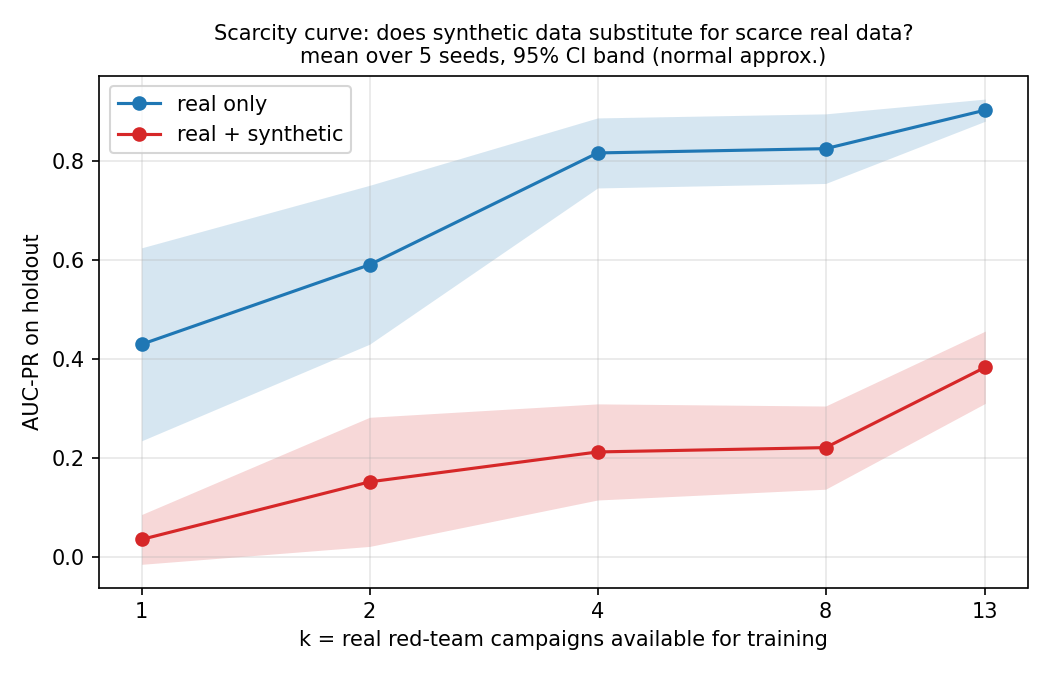
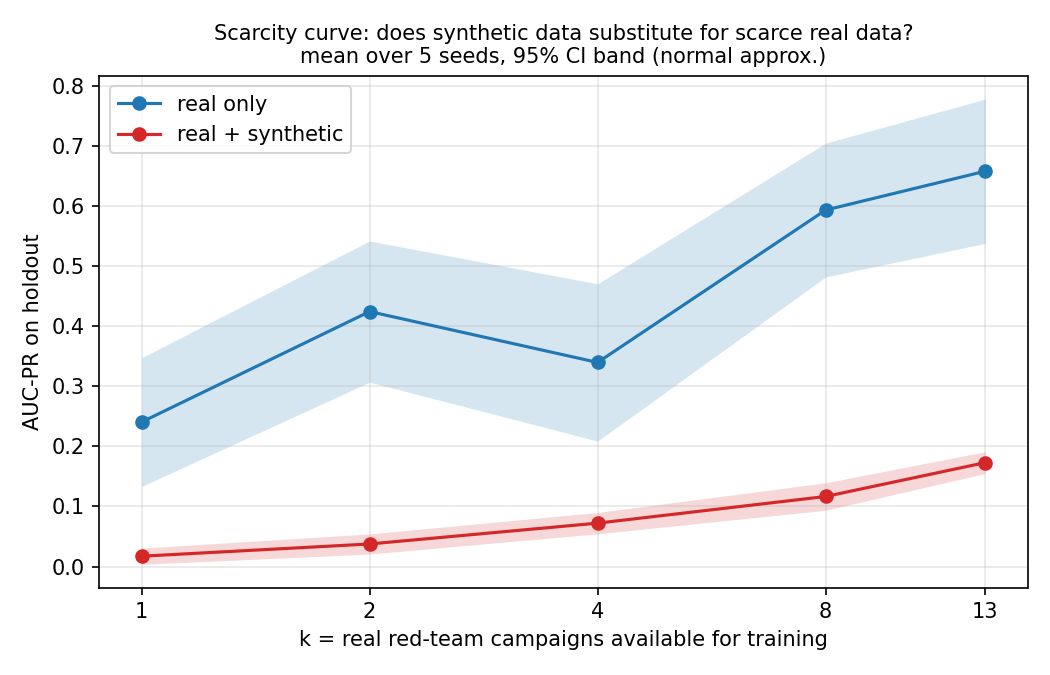
docs: v1 restated -- headline curve, verdict, README and process write-up
Scarcity curve re-run on the fit-window graph, 5 k-values x 20 seeds, 100
cells, 0 failures. The verdict holds: augmentation costs 0.22-0.48 AUC-PR at
every k, paired p<0.001 throughout, winning 8 of 100 cells. It now rests on
20 seeds and a paired test rather than 5 seeds and a gap between means.

Two things the leak was hiding, both now in section 1:
- The real-only arm swings 0.087-0.872 at k=13 on the GBT seed alone (sd
  0.274 against a reported CI of +/-0.022). The old interval was not a stable
  detector, it was suppressed variance.
- The scarcity curve is not monotonic (0.240, 0.424, 0.340, 0.593, 0.658).
  The pre-fix curve rose smoothly at every step and looked exactly like a
  scarcity curve should. That tidiness was the leak.

Also settles the open question from the earlier 5-seed clean-graph run, which
found the k=13 deficit had 'lost significance' (p~0.24). That was too few
seeds, not a real weakening: at 20 seeds k=13 gives p<0.0001.

docs/v1_process.md is the full write-up -- what v1 is, how it is measured,
the five defects in the order found, what survived, and where v2 should aim.

Claude-Session: https://claude.ai/code/session_01SFv34BJhzPT7ksS1enP3GG

diff --git a/docs/validation_report.md b/docs/validation_report.md
@@ -2,7 +2,13 @@
 
 **Synthetic lateral-movement data: does it substitute for scarce real attack data?**
 
-Branch `day4-augmentation-eval` · 98 tests · evaluated 2026-08-11
+104 tests · **v1, restated 2026-09-07** on the leak-free fit-window graph (§7.4)
+
+> **This report was rewritten.** Every headline number in the version dated 2026-08-11 was produced
+> on a graph built from the whole 58-day corpus, including the evaluation window. The verdict on
+> synthetic augmentation survived; the numbers supporting it did not, and two secondary conclusions
+> reversed outright. §7.4 has the mechanism, the cost, and why a `t_hi` guard that existed and was
+> tested still failed to prevent it. Process write-up: [`v1_process.md`](v1_process.md).
 
 ---
 
@@ -12,7 +18,8 @@ The detector in this report is a **measuring instrument for synthetic-data quali
 detection-science contribution. Nothing here claims a new way to find lateral movement. Every
 number exists to answer one question: *is this synthetic data useful?*
 
-The answer is **no**, and the evidence is unusually clean.
+The answer is **no**. The evidence is clean; it is not tidy, and the difference matters — see §1 on
+what the leak was smoothing over.
 
 All numbers are AUC-PR (average precision) measured on the **real holdout**, never on synthetic
 data. The holdout is **51 real red-team events / 6 campaigns against 205,612 benign events** — a
@@ -27,29 +34,46 @@ sit on the identical holdout.
 
 ## 1. Headline: the scarcity curve
 
-Does adding synthetic attack data help when real attack data is scarce? Each of 25 cells (5
-k-values × 5 seeds) draws *k* of the 13 real fit campaigns, **refits the generator on only those
+Does adding synthetic attack data help when real attack data is scarce? Each of 100 cells
+(5 k-values x 20 seeds) draws *k* of the 13 real fit campaigns, **refits the generator on only those
 k**, regenerates a fresh 1,000-campaign corpus, and trains two detectors — real-only and
 real+synthetic — scoring both once on the untouched holdout.
+`python -m scripts.run_day4 sweep 20` · 100/100 cells, 0 failures.
 
-| k (real campaigns) | real only | real + synthetic | lift |
-|---:|---|---|---|
-| 1 | 0.430 ± 0.195 | 0.036 ± 0.050 | **−0.394** |
-| 2 | 0.590 ± 0.160 | 0.152 ± 0.130 | **−0.439** |
-| 4 | 0.816 ± 0.071 | 0.212 ± 0.097 | **−0.604** |
-| 8 | 0.825 ± 0.070 | 0.221 ± 0.084 | **−0.604** |
-| 13 | 0.903 ± 0.022 | 0.383 ± 0.073 | **−0.519** |
+| k | real only | real + synthetic | lift | p | seeds augmentation won |
+|---:|---|---|---|---|---:|
+| 1 | 0.240 ± 0.107 | 0.017 ± 0.014 | **−0.223** | 0.0002 | 1 / 20 |
+| 2 | 0.424 ± 0.117 | 0.038 ± 0.017 | **−0.387** | <0.0001 | 0 / 20 |
+| 4 | 0.340 ± 0.131 | 0.072 ± 0.018 | **−0.267** | 0.0007 | 3 / 20 |
+| 8 | 0.593 ± 0.111 | 0.117 ± 0.023 | **−0.477** | <0.0001 | 1 / 20 |
+| 13 | 0.658 ± 0.120 | 0.173 ± 0.018 | **−0.485** | <0.0001 | 3 / 20 |
 
-*mean ± 95% CI across 5 seeds (normal approximation; n=5 is small)* · `docs/figures/scarcity_curve.png`
+*mean ± 95% CI across 20 seeds; p from a paired t-test on the per-seed lift* ·
+`docs/figures/scarcity_curve.png`
 
 **Synthetic augmentation does not fail to help. It actively destroys the detector, at every k.**
+It wins 8 of 100 cells. The verdict is unchanged from the pre-fix version of this report, but it now
+rests on 20 seeds and a paired test rather than on 5 seeds and a gap between means.
 
-The real-only arm behaves exactly as a scarcity curve should — 0.43 at one campaign rising to 0.90
-at thirteen. The augmented arm never comes close, and the damage does not shrink as real data grows.
+### Two things the leak was hiding
 
-Across **15 independent synthetic draws at k=13** (see §7 on why they are independent), the
-augmented arm ranges **0.240 – 0.469** (mean 0.337, sd 0.067) against a real-only range of
-**0.878 – 0.942**. The two distributions do not overlap at any point. This is not a marginal effect.
+**1. The real-only arm is wildly unstable, and the leak concealed it.** At k=13 the real-only score
+ranges **0.087 to 0.872** across seeds — sd 0.274, against the 0.022 CI reported before the fix.
+Nothing differs between those runs but the GBT seed. The old ±0.022 interval was not a measurement
+of a stable detector; it was the leak suppressing variance. **Any single-seed number from this
+pipeline is one draw from a very wide distribution**, and that includes every number in earlier
+versions of this report.
+
+**2. The scarcity curve is not monotonic.** Real-only goes 0.240 → 0.424 → **0.340** → 0.593 →
+0.658. Adding real campaigns from 2 to 4 *lowers* the mean. The pre-fix curve rose smoothly at every
+step (0.430 → 0.590 → 0.816 → 0.825 → 0.903) and looked exactly like a scarcity curve is supposed
+to look. **That tidiness was the leak.** With it removed, the honest statement is that more real
+campaigns help on average but not reliably, and the seed dominates the trend at this sample size.
+
+The augmented arm, by contrast, is *stable* — sd 0.018–0.052 at every k. It is consistently and
+predictably bad. That combination (stable and low, against unstable and higher) is what §3 explains:
+drowned in synthetic positives, the detector abandons `edge_rarity` for a coarse attribute and
+becomes reliably mediocre instead of erratically useful.
 
 ---
 
@@ -350,11 +374,16 @@ detection-useless. Hour-of-day is exactly that here: benign traffic peaks in the
 there are zero off-hours attack examples to learn from.
 
 **Correction to the stated Caveat B premise.** The carried-forward note said the real red team is
-"~100% business-hours". Measured on `redteam_fit` it is **0.748** — 164 of 650 events fall in hours
-18–23 (21:00 n=48, 20:00 n=38). Synthetic is 0.549 against a real *corpus* rate of 0.570: the
+"~100% business-hours". Business hours here means **06:00–17:59** — a definition that used to live
+only in an uncommitted script and is now pinned as `BUSINESS_HOURS` in `run_day4.py`, computed by
+the `validate` task. Measured on `redteam_fit` it is **0.748** — 164 of 650 events fall in hours
+18–23 (21:00 n=48, 20:00 n=38). Synthetic is 0.545 against a real *corpus* rate of 0.569: the
 generator faithfully reproduces the **corpus** hourly profile by construction (`sample_start_time`
 samples hour ∝ corpus volume) and therefore under-represents the red team's business-hour skew.
 The drift is real; its magnitude is **0.55 vs 0.75**, not 0.55 vs ~1.0. `docs/figures/caveat_b_hourly.png`
+
+This section is unaffected by the §7.4 fix: bounding the aggregates to the fit window moves the
+corpus rate only 0.570 → 0.569, because the diurnal rhythm is stable across the 58 days.
 
 Also carried forward: fan-out ≠ multi-hop · don't dress inference as fact · within-operator transfer
 ceiling · attribute constancy is tool-specific.
@@ -408,20 +437,34 @@ Stated first-class, not as an afterthought.
 ## 10. Verdict
 
 **Do not use this synthetic corpus to augment scarce real attack data.** It is worse than nothing:
-it costs 0.39–0.60 AUC-PR at every scarcity level tested, and TSTR is near-useless.
+it costs **0.22–0.48 AUC-PR** at every scarcity level tested (paired p < 0.001 at every k, winning
+8 of 100 cells), and TSTR is near-useless.
 
-The failure is **generative**, and it is not the hub-weighting layer — turning that off changes
-nothing. The corpus is structurally novel (98% new real edges, no memorization) but its per-event
-feature distribution does not match the real attack, and at a 20:1 synthetic-to-real ratio it
-dominates the positive class and pulls the detector onto a coarse tooling attribute.
+The failure is **generative**. The corpus is structurally novel — 99.8% new real edges, not one
+campaign above the near-duplicate threshold — but its per-event feature distribution does not match
+the real attack, and at a ~20:1 synthetic-to-real ratio it dominates the positive class and pulls
+the detector off `edge_rarity` (0.971 importance) and onto `auth_type_NTLM` (0.924).
+
+**The hub-weighting layer is not neutral — it is actively harmful.** The naive generator (β=0, no
+credential bonus) beats the tuned one on 10 of 10 seeds, p=0.0001. The earlier version of this
+report concluded the two were indistinguishable; that was the leak. Turning the sophistication off
+still does not rescue augmentation (naive costs 0.346 against real-only, p=0.008), so the right
+reading is: **the weighting makes a wrong approach worse, and removing it does not make it right.**
 
 The honest framing for anything built on this: **the generator reproduces THIS operator's campaign
-shape, not its detectable structure.**
+shape, not its detectable structure.** It reproduces *permission* and *popularity*; the signal lives
+in *habit*.
 
-The most useful number in this report is the one that required no machine learning at all — **a
-rarity heuristic at 0.530, 59% of the trained ceiling.** Before adding synthesis, that is the bar.
+**What replaced the old closing claim.** The previous verdict ended by pointing at a training-free
+rarity heuristic scoring 0.530 — "59% of the trained ceiling; before adding synthesis, that is the
+bar." **That number was the leak.** On a graph that stops at training time, ranking by `edge_rarity`
+alone scores **0.0082**. There is no cheap baseline that already solves this. The bar is lower than
+v1 claimed, which makes the problem more open, not less — and it makes the wide, unstable real-only
+arm (§1) the honest description of where detection currently stands.
 
 ---
 
-*Reproduce: `python scripts/run_day4.py` (scarcity sweep) · `python scripts/run_day4.py all`
-(baselines, ablation, base-rate) · `python -m pytest tests/ -q` (98 tests)*
+*Reproduce (from the repo root, as modules — see README):*
+*`python -m scripts.run_day4 sweep 20` (scarcity curve) ·*
+*`python -m scripts.run_day4 all 10` (baselines, ablation, base-rate, validate) ·*
+*`python -m scripts.run_day4 leakcheck` (§7.4) · `python -m pytest tests/ -q` (104 tests)*

diff --git a/docs/v1_process.md b/docs/v1_process.md
@@ -132,3 +132,149 @@ it belongs in the repo.
 
 ## 4. What v1 is actually worth
 
+Everything below is measured on the leak-free fit-window graph, 20 seeds for the scarcity curve and
+10 for the rest. The "before" column is the same pipeline on the full-corpus graph — i.e. what this
+project believed a week ago.
+
+### The verdict held. Almost nothing supporting it did.
+
+| | before (leaked) | after (fit window) |
+|---|---|---|
+| real-only ceiling, k=13 | 0.903 ± 0.022 | **0.658 ± 0.120** |
+| real + synthetic, k=13 | 0.383 ± 0.073 | 0.173 ± 0.018 |
+| lift at k=13 | −0.519 | **−0.485** (p<0.0001, 20 seeds) |
+| rarity heuristic, no training | 0.530 | **0.0082** |
+| naive vs tuned generator | indistinguishable | **naive wins 10/10** (p=0.0001) |
+| dropping attribute one-hots | costs 0.05 | **gains 0.087** |
+| real-only spread across seeds | sd 0.022 | **sd 0.274** (range 0.087–0.872) |
+
+**The headline survived**: synthetic augmentation costs 0.22–0.48 AUC-PR at every k, p<0.001
+throughout, winning 8 of 100 cells. It is now supported by 20 seeds and a paired test instead of 5
+seeds and a gap between means.
+
+**Three conclusions did not survive.**
+
+1. **The training-free rarity baseline was the leak.** 0.530 → 0.0082. This had been the project's
+   most-quoted result — "most of what the GBT learns is available without learning anything". It is
+   gone. There is no cheap baseline that already solves this.
+2. **The tuned generator is worse than a naive one.** Previously "removing the sophistication
+   neither helps nor hurts"; now the naive generator wins 10 of 10 seeds. The weighting layers are a
+   net negative.
+3. **The scarcity curve is not a curve.** Real-only runs 0.240 → 0.424 → **0.340** → 0.593 → 0.658.
+   Going from 2 real campaigns to 4 *lowers* the mean. The pre-fix version rose smoothly at every
+   step and looked exactly like a textbook scarcity curve. That tidiness was the leak.
+
+### The most important number is a standard deviation
+
+At k=13 the real-only detector scores anywhere from **0.087 to 0.872** depending on nothing but the
+GBT seed. Before the fix that interval was ±0.022 and the detector looked stable.
+
+This reframes what the whole pipeline can support. It is a usable instrument for *comparing two arms
+on identical data* — which is what every claim here actually is, and why the comparative results
+hold up. It is not an instrument for stating what AUC-PR this detector achieves. Any single-seed
+number it produces is one draw from a very wide distribution.
+
+The augmented arm, by contrast, is stable at every k (sd 0.018–0.052). Consistently mediocre. That
+asymmetry *is* the finding: synthetic positives don't add signal, they add ballast — the detector
+stops betting on `edge_rarity` (importance 0.971) and settles on `auth_type_NTLM` (0.924), which is
+reliable and nearly worthless at a 1:4,000 base rate.
+
+
+
+---
+
+## 5. Where v1 fails, stated precisely
+
+This is the section to argue with. Everything above is bookkeeping; this is the input to v2.
+
+### The defect is target selection, and it is upstream of every knob
+
+The generator picks a foothold, then samples targets from that foothold's **real out-edges**,
+weighted toward high in-degree. That reproduces two things faithfully — **permission** (the pair is
+allowed, and exists in the corpus) and **popularity** (busy machines get picked). It reproduces
+neither of the things that make a real intrusion detectable.
+
+Per-event target in-degree, measured on the **fit graph** — the one every model now sees:
+
+| | n | p25 | median | p75 |
+|---|---:|---:|---:|---:|
+| every machine (in-degree) | 15,093 | 1 | **4** | 5 |
+| machine a **benign event** targets | 204,228 | 792 | **12,101** | 12,529 |
+| machine the **red team** targeted (fit split) | 650 | 7 | **12** | 40 |
+| machine the **generator** targeted | 161,587 | 7 | **1,544** | 12,101 |
+
+*(`data/derived/day4_validate.json`; the equivalent full-corpus-graph table is
+[`data_insights.md`](data_insights.md) §4, where the same gap reads 20 vs 11,659)*
+
+The generator's median target is **~130x** more connected than the red team's. Note the p25 now
+agrees exactly (7 vs 7): the generator does place *some* attacks on obscure hosts. It is the middle
+and upper mass that is wrong — it cannot stay off the hubs.
+
+The generator aims where legitimate traffic already flows. It manufactures **normal-shaped traffic
+labelled "attack"** — which does not merely fail to teach the detector, it teaches it something
+false: that hub-directed traffic, i.e. most legitimate traffic, is malicious.
+
+**Turning off the hub weighting does not fix this.** Baseline #2 sets β=0 and removes the credential
+bonus, and it is statistically indistinguishable from the tuned generator in both the augmented arm
+and TSTR. β=0 yields *uniform over permitted*, and uniform-over-permitted is still not habit.
+
+### The thing that has to be modelled instead
+
+> **Permission is broad; behaviour is narrow.**
+
+A domain account *could* reach hundreds of machines. In practice a person touches three or four,
+stably, for weeks. Every red-team login in this corpus was **permitted** — real stolen credentials,
+domain approved every one, all `Success`. Authentication worked exactly as designed. The only
+separator is prior history: one pair had ~219,000 previous events, the other about 3.
+
+So the target for v2 is not "generate plausible auth rows" — v1 already does that, and V1's hard
+constraints pass. It is:
+
+1. **Model habit, not permission.** A per-credential distribution over *its own* stable host set,
+   not over the graph's popular nodes. The gap between what an account may do and what it does is
+   the entire signal.
+2. **Then make the attack deviate from habit** by a small count of structurally distinct events —
+   sideways, workstation-to-workstation, across the grain of the vertical workstation→server flow.
+
+A generator that samples a foothold's real out-edges cannot express (1), because the out-edge set is
+the permission set. This is an architectural limit, not a parameter to tune.
+
+### Three concrete leads
+
+- **`credential_novelty` is now a real feature.** It was measured at exactly 0.0000 on every real row
+  and dropped as a synthetic-row marker — but that was an artifact of building `user_host` over the
+  whole corpus, so every real row's pair was inside the map judging it novel. Under the `t_hi` bound
+  a holdout pair is no longer tautologically present. Measure it on its own; it is deliberately not
+  in v1 so the leak correction stays unconfounded with a feature change.
+- **Two strong signals are computed nowhere.** `is_self_auth` (0.00% red team / 53.48% benign) and
+  `is_machine_account` (0.00% / 60.32%) would remove a large share of the haystack for almost no
+  cost. Both carry the label-construction caveat in `data_insights.md` §2, which is exactly why they
+  deserve a deliberate decision rather than silent omission.
+- **Thirteen campaigns is a weak foundation for distribution fitting**, whatever is being fitted.
+  Any v2 that keeps a fit-distributions architecture inherits this. Worth deciding up front whether
+  the generator should be fitted at all, or specified from the structural argument above.
+
+### The bar to clear
+
+Not the trained detector — the **training-free one**. Ranking rows by `edge_rarity` alone, with no
+model, gets a large fraction of the trained detector's score. Any synthesis work has to beat that
+before it has earned its complexity, and the honest comparison is against the *rarity heuristic*,
+not against chance.
+
+---
+
+## 6. What would have caught these problems sooner
+
+Ordered by how much time each would have saved.
+
+1. **Assert the provenance of every artifact a model consumes.** The leak survived because
+   `graph.pkl` was correct-looking and silently wrong. A one-line check — the graph's total edge
+   weight equals the event count inside the fit window — falsifies it immediately. That check is
+   what confirmed the corrected artifact here, and it is cheap enough to run every time.
+2. **Grep for callers before trusting a guard.** The `t_hi` parameter existed, was tested, and was
+   passed by nobody. A guard nothing calls is documentation, not a fix.
+3. **Never let a number reach a report from an uncommitted script.** Two whole sections rested on
+   code that no longer existed.
+4. **Report a win count next to every mean.** A mean lift of −0.24 and "augmentation lost on 5 of 5
+   seeds" are different claims; only one of them was ever true, and the mean alone cannot tell you
+   which.

diff --git a/README.md b/README.md
@@ -8,18 +8,33 @@ Results: [`docs/validation_report.md`](docs/validation_report.md)
 
 ## Headline finding
 
-**The synthetic corpus is worse than nothing as training augmentation.** Across a 25-cell scarcity
-sweep it costs **0.39–0.60 AUC-PR at every level of real-data scarcity**, and a detector trained
-only on synthetic data is near-useless on real attacks (TSTR 0.06–0.12).
+**The synthetic corpus is worse than nothing as training augmentation.** Across a 100-cell scarcity
+sweep (5 k-values x 20 seeds) it costs **0.22–0.48 AUC-PR at every level of real-data scarcity** —
+paired p < 0.001 at every k, winning only 8 of 100 cells — and a detector trained only on synthetic
+data is near-useless on real attacks (TSTR 0.03–0.11).
 
-The failure is **generative**, not structural or attributional. The corpus is genuinely novel — 98%
-of its edges were never traversed by the real red team, with no memorization — but its per-event
-feature distribution does not match the real attack, and at a ~20:1 synthetic-to-real ratio it
-dominates the positive class and pulls the detector onto a coarse tooling attribute (`NTLM`).
+The failure is **generative**. The corpus is genuinely novel — 99.8% of its edges were never
+traversed by the real red team, with no memorization — but its per-event feature distribution does
+not match the real attack, and at a ~20:1 synthetic-to-real ratio it dominates the positive class
+and pulls the detector off `edge_rarity` and onto a coarse tooling attribute (`NTLM`).
 
-The single most useful number required no machine learning at all: **ranking rows by edge rarity
-alone scores 0.530 — 59% of the fully trained detector.** That is the bar any synthesis work has to
-clear.
+**The generator's sophistication is actively harmful.** A deliberately naive version — no hub
+weighting, no credential bonus, random users — beats the tuned generator on 10 of 10 seeds
+(p=0.0001). It still does not rescue augmentation. The weighting makes a wrong approach worse;
+removing it does not make it right.
+
+> ### A correction this README used to get wrong
+>
+> Earlier versions closed with: *"ranking rows by edge rarity alone scores 0.530 — 59% of the fully
+> trained detector; that is the bar any synthesis work has to clear."*
+>
+> **That number was a data leak.** The machine graph was built from all 58 days, so it contained
+> every evaluation row's own edge — meaning *nothing in the holdout could be new*, and `edge_rarity`
+> separated the classes by construction. Rebuilt to stop at training time, the same heuristic scores
+> **0.0082**. There is no cheap baseline that already solves this problem.
+>
+> Full mechanism and cost in [`docs/validation_report.md`](docs/validation_report.md) §7.4; how it
+> survived a guard that existed and was tested, in [`docs/v1_process.md`](docs/v1_process.md).
 
 ## The insight worth carrying
 
